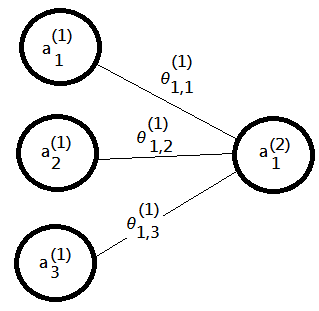
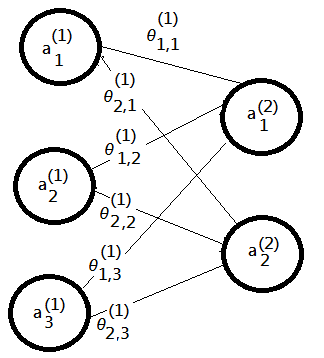
update _posts/2017-11-20-nn-backward-propagation.md with gradient proof by mathematics induction, 2

diff --git a/_posts/2017-11-20-nn-backward-propagation.md b/_posts/2017-11-20-nn-backward-propagation.md
@@ -61,6 +61,14 @@ $$\delta^{(2)}={\begin{bmatrix}\delta_1^{(2)}\end{bmatrix}}_{1\times1}=a_1^{(2)}
 
 >&#10113;next, we step further into 2 output nodes in final layer, $3\times2$ neural network model:
 
+![]({{ site.github.repo }}{{ site.baseurl }}/images/pic/2017-11-22-nn-backward-propagation-proof-by-3-2.png "backward propagation by 3x2")
+
+>We can have:  
+$$\begin{array}{l}a_i^{(2)}=g(z_i^{(2)})=g(\theta_{i,1}^{(1)}\cdot a_1^{(1)}+\theta_{i,2}^{(1)}\cdot a_2^{(1)}+\theta_{i,3}^{(1)}\cdot a_3^{(1)})\\,for\;i=1\;to\;2\;in\;this\;case\end{array}$$
+
+>Succeeding to the result in &#10112;, take error costs at layer 2(in this example) as:  
+$$\delta_{2\times1}^{(2)}={\begin{bmatrix}\delta_1^{(2)}\\\delta_2^{(2)}\end{bmatrix}}_{2\times1}={\begin{bmatrix}a_1^{(2)}-y^{(i\_data)}\\a_2^{(2)}-y^{(i\_data)}\end{bmatrix}}_{2\times1}$$
+
 >
 
 ### The Backward Propagation Algorithm
